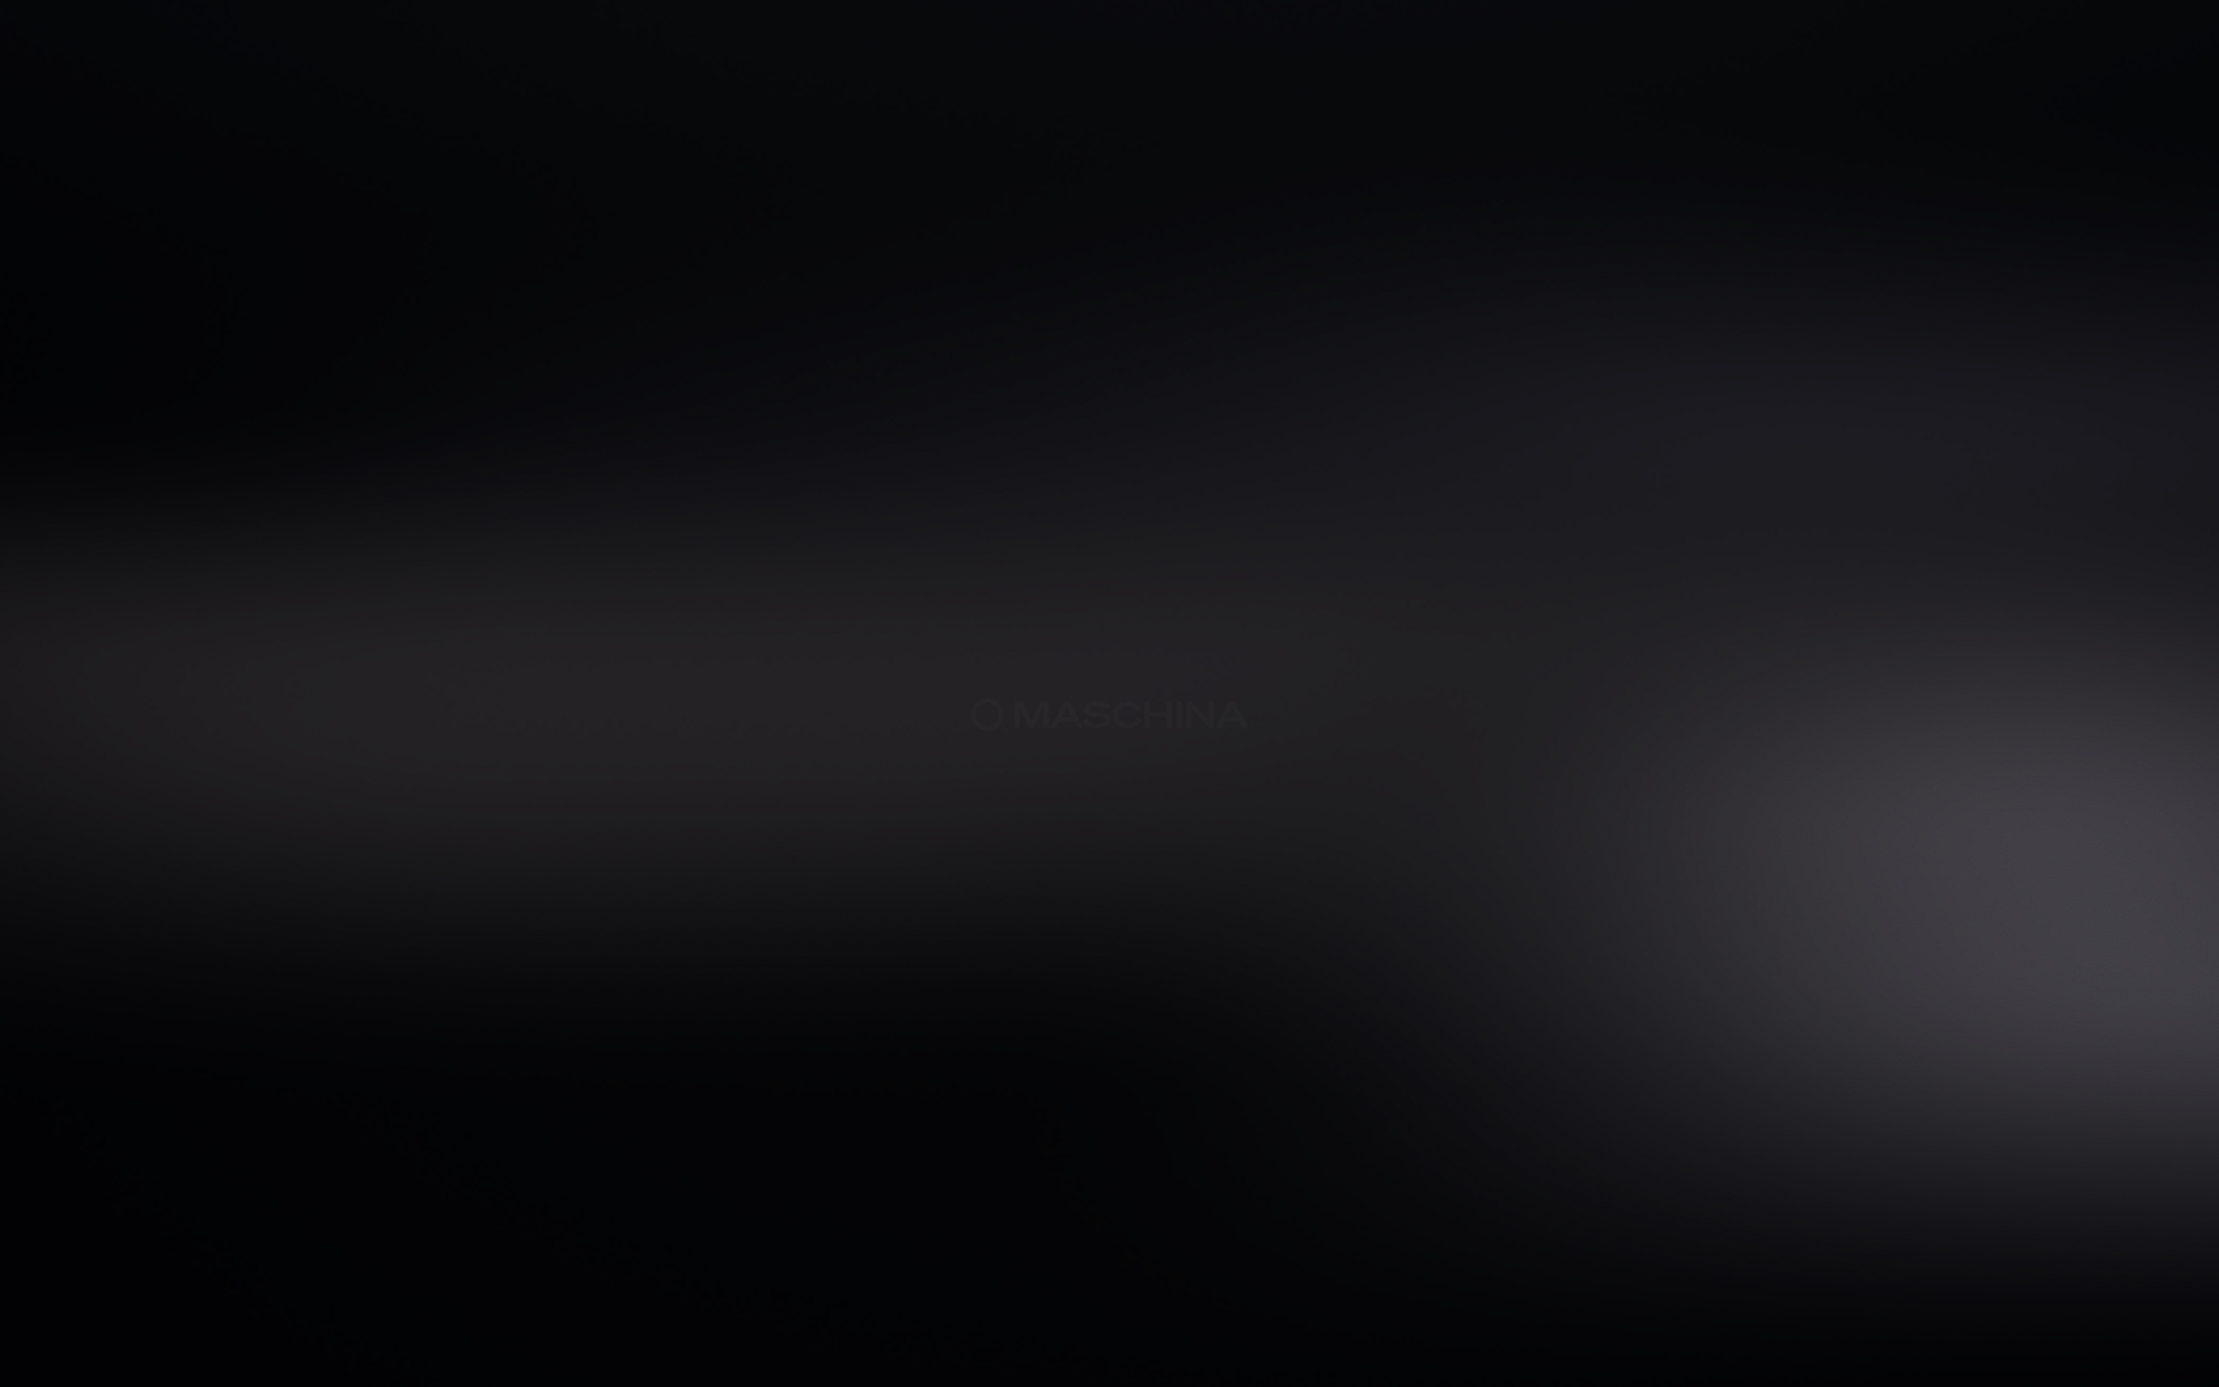
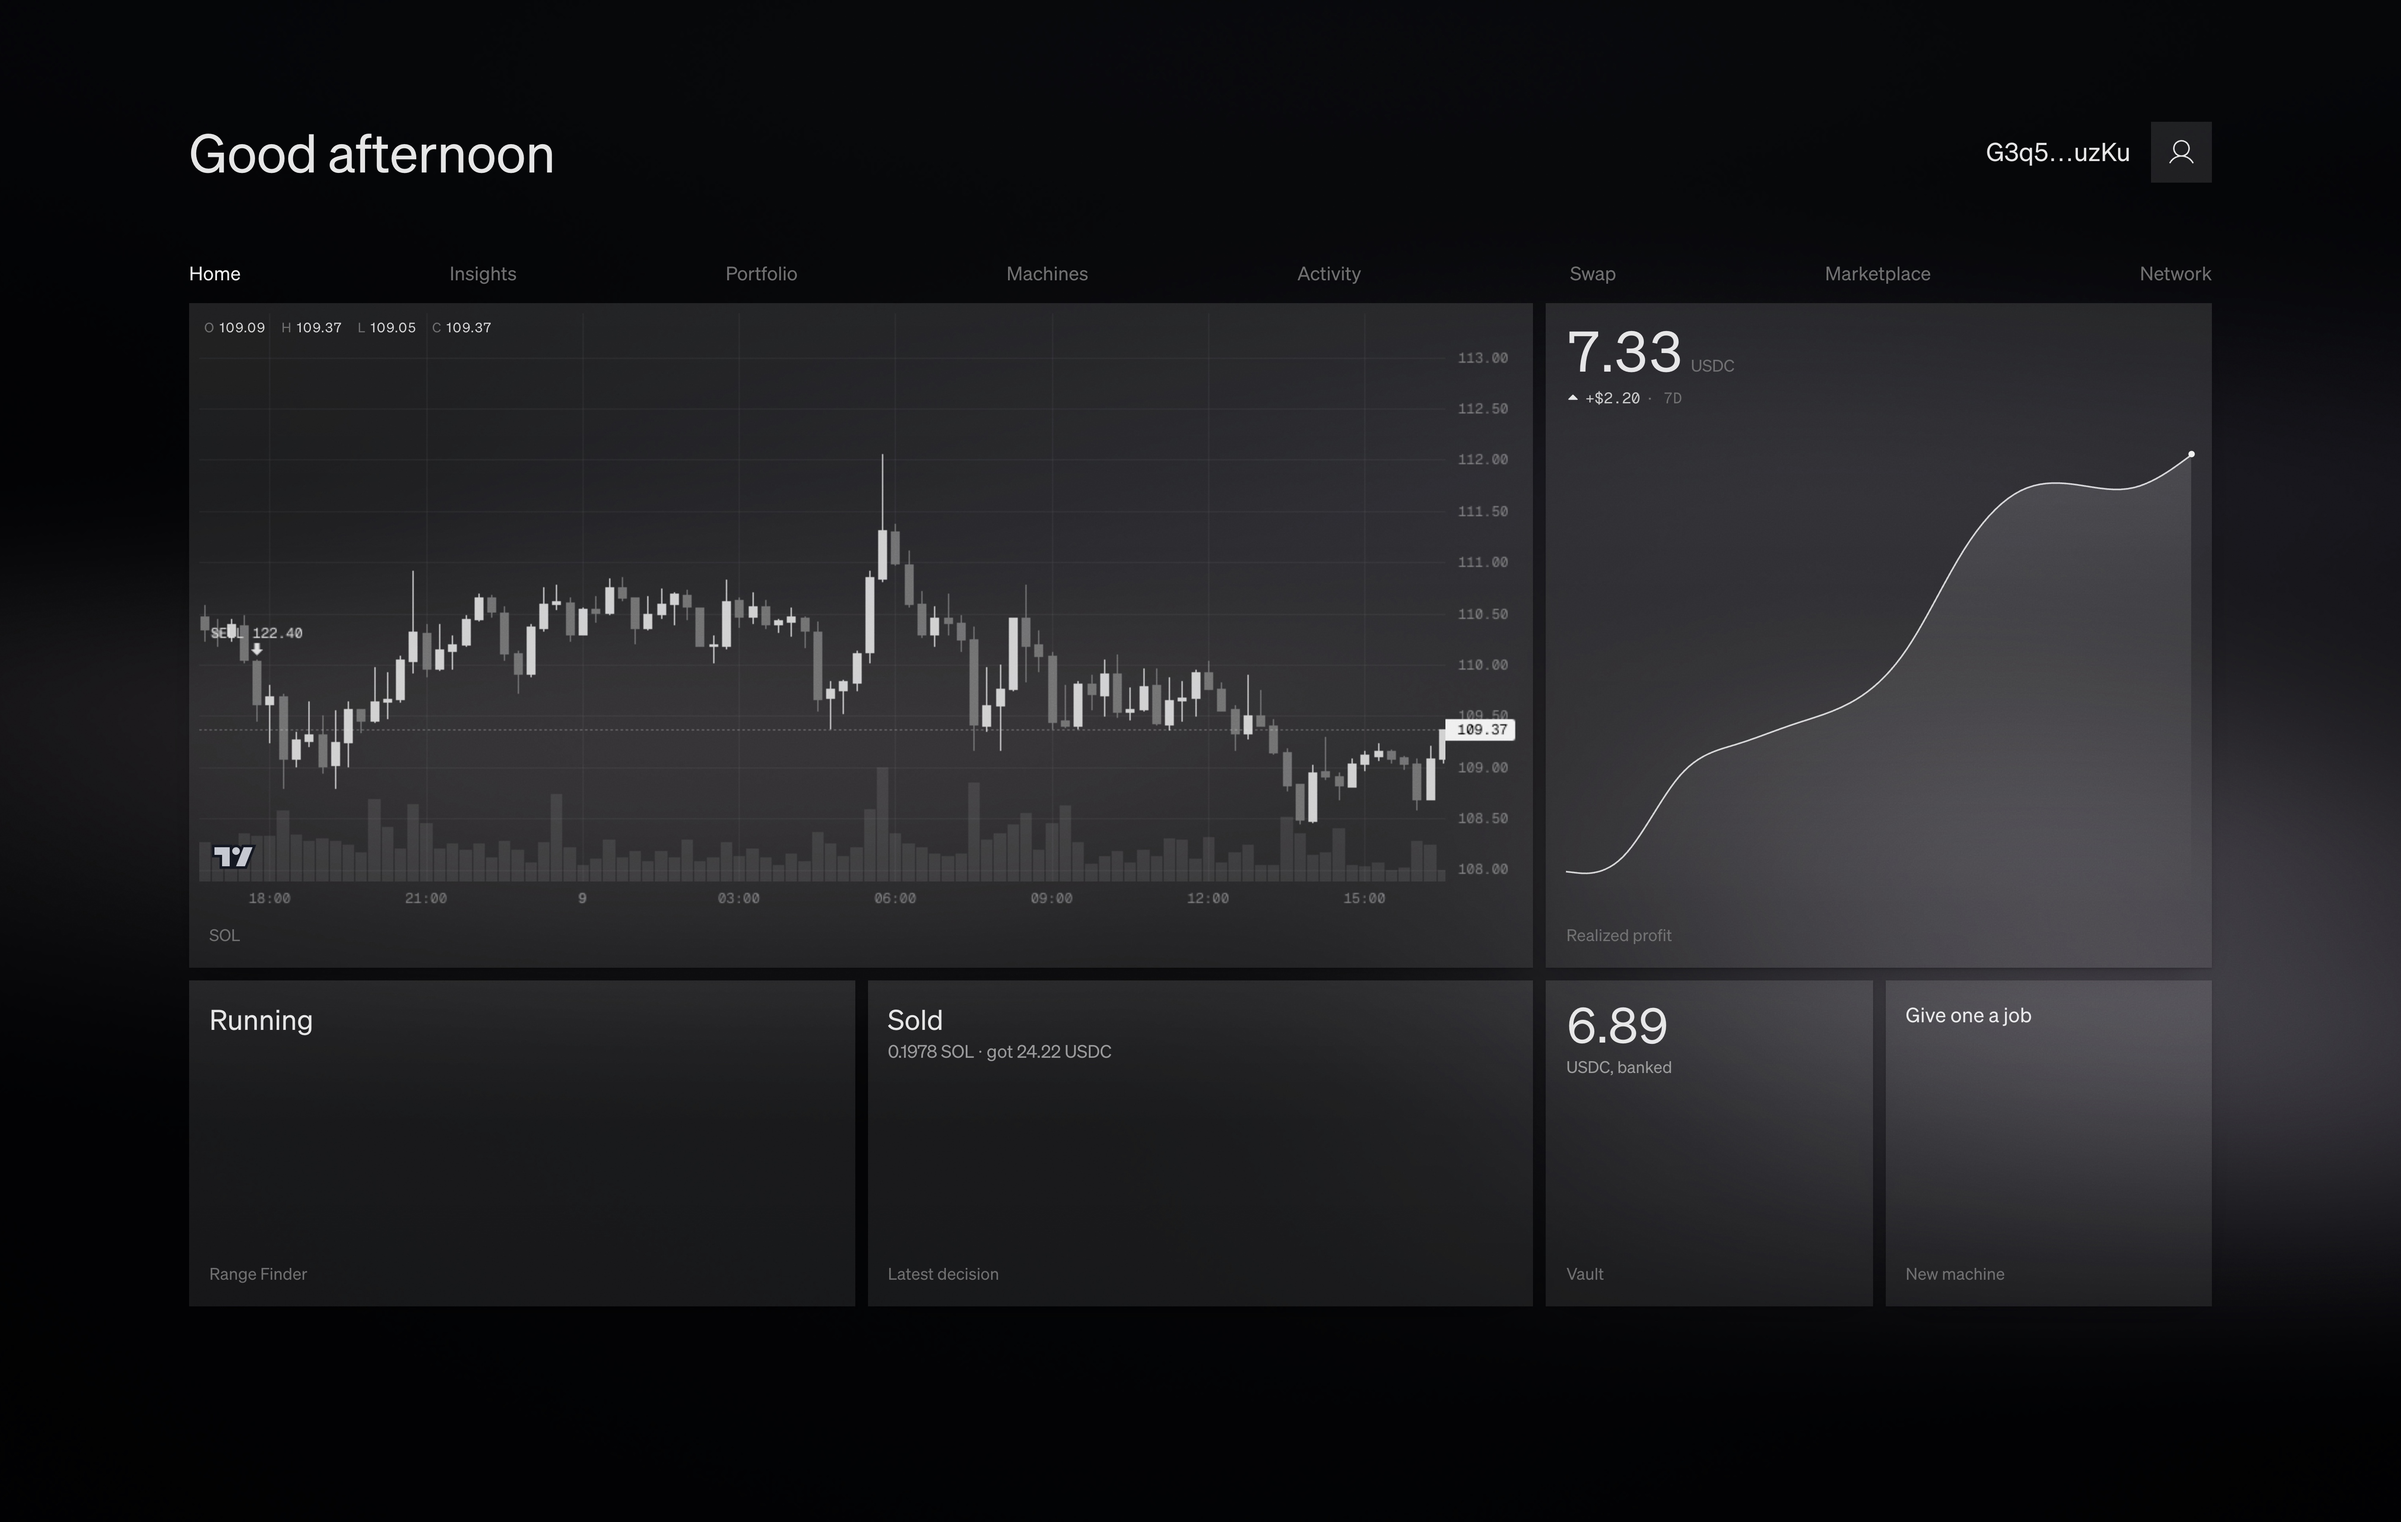
feat(web): full screen dashboard image, no window frame

diff --git a/apps/web/src/showcase.tsx b/apps/web/src/showcase.tsx
@@ -11,10 +11,10 @@ const GRAIN =
  * It floats in the middle of a backdrop of its own, a wide panel of soft pearl and silver light with a fine
  * grain, and room all around it, in the quiet colors of the rest of the site. The backdrop is plain CSS
  * (gradients and a grain filter), so it costs the graphics card nothing. The picture has an ordinary dark drop
- * shadow to lift it off the light, and nothing glows. Nothing moves: no tilt, no shine.
+ * shadow to lift it off the light, and nothing glows. Nothing moves: no tilt, no shine, no window frame.
  *
- * The picture is very sharp: it is captured at four times the screen's pixels, and the browser picks between a
- * 2624 pixel file and a 5248 pixel one for the screen it is on.
+ * The picture is very sharp: it is the whole app, edge to edge, captured on a 1920 by 1200 screen at three times its
+ * pixels, and the browser picks between a 2838 pixel file and a 5676 pixel one for the screen it is on.
  */
 export function Showcase() {
 	return (
@@ -32,11 +32,11 @@ export function Showcase() {
 					/>
 					<img
 						src="/showcase/dashboard.jpg"
-						srcSet="/showcase/dashboard.jpg 2624w, /showcase/dashboard-4x.jpg 5248w"
+						srcSet="/showcase/dashboard.jpg 2838w, /showcase/dashboard-4x.jpg 5676w"
 						sizes="(min-width: 1536px) 1300px, (min-width: 1280px) 900px, 82vw"
-						alt="The home screen of the Maschina app: a candlestick chart of SOL with a trade marked on it, a curve of realized profit, and tiles for the machine that is running, its latest decision, the vault balance and a new machine."
-						width={2624}
-						height={1640}
+						alt="The home screen of the Maschina app, shown full screen: a candlestick chart of SOL with a trade marked on it, a curve of realized profit, and tiles for the machine that is running, its latest decision, the vault balance and a new machine."
+						width={2838}
+						height={1800}
 						decoding="async"
 						className="relative block h-auto w-full shadow-[0_30px_80px_-24px_oklch(0_0_0/0.65)]"
 					/>

diff --git a/apps/web/src/showcase.test.tsx b/apps/web/src/showcase.test.tsx
@@ -19,8 +19,8 @@ describe("the showcase", () => {
 		expect(image.getAttribute("alt")).toMatch(/home screen/);
 		expect(image.getAttribute("alt")).toMatch(/chart/);
 		// Its size is declared, so the page does not jump as it loads.
-		expect(image).toHaveAttribute("width", "2624");
-		expect(image).toHaveAttribute("height", "1640");
+		expect(image).toHaveAttribute("width", "2838");
+		expect(image).toHaveAttribute("height", "1800");
 		expect(image).toHaveAttribute("decoding", "async");
 	});
 
@@ -40,12 +40,12 @@ describe("the showcase", () => {
 		);
 	});
 
-	it("is very sharp: a 2624 pixel file for most screens and a 5248 pixel one for the densest, chosen by the browser", () => {
+	it("is very sharp: a 2838 pixel file for most screens and a 5676 pixel one for the densest, chosen by the browser", () => {
 		render(<Showcase />);
 		const image = screen.getByRole("img");
 		expect(image).toHaveAttribute("src", "/showcase/dashboard.jpg");
 		expect(image.getAttribute("srcset")).toBe(
-			"/showcase/dashboard.jpg 2624w, /showcase/dashboard-4x.jpg 5248w",
+			"/showcase/dashboard.jpg 2838w, /showcase/dashboard-4x.jpg 5676w",
 		);
 		// How wide it is shown: about 900 pixels on a laptop, 1300 on a very wide screen, and most of the width on a phone.
 		expect(image.getAttribute("sizes")).toBe(
@@ -54,6 +54,12 @@ describe("the showcase", () => {
 		for (const file of ["dashboard.jpg", "dashboard-4x.jpg"]) {
 			expect(existsSync(resolve(publicDir, "showcase", file))).toBe(true);
 		}
+	});
+
+	it("has no window frame or title bar around the picture: just the picture", () => {
+		const { container } = render(<Showcase />);
+		expect(container.querySelector("[data-window], [data-titlebar], [data-control]")).toBeNull();
+		expect(screen.getByRole("img").parentElement).toBe(container.querySelector("[data-backdrop]"));
 	});
 
 	it("sits centered in a backdrop of its own: a wide panel of soft pearl and silver light, with room all around", () => {
